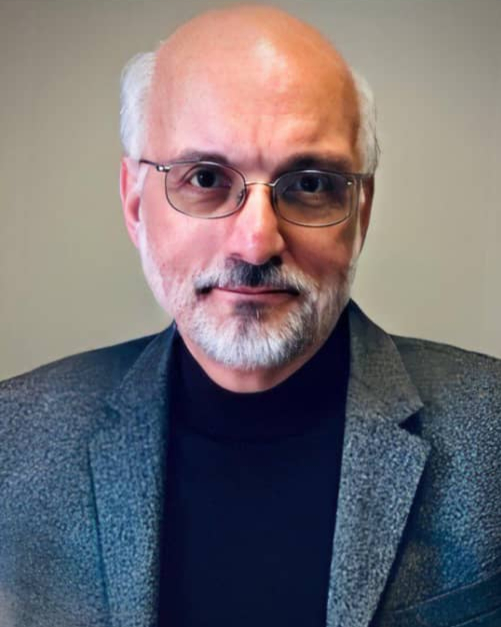
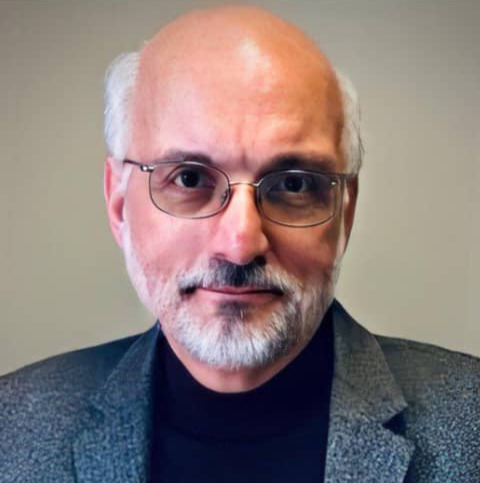
Revamped the media institute page

diff --git a/mediatraining.html b/mediatraining.html
@@ -112,11 +112,11 @@
             <div class="text-center mt-2">
                 <a href="2025registration.html" class="attention-text">🎯 Register Now for 2025 Media Institute Training</a>
             </div>  
-            <div class="text-center mt-3 mb-4">
+            <!-- <div class="text-center mt-3 mb-4">
                 <a href="documents/Session Titles and Descriptions Draft.pdf" target="_blank" class="btn btn-primary">
                     <i class="bi bi-file-earmark-pdf"></i> Click To View This Year's Session Titles and Description
                 </a>
-            </div>  
+            </div>   -->
 
             <!-- About Section -->
             <nav>
@@ -147,7 +147,7 @@
             </nav>
 
             <!-- Image Centered in Row -->
-            <div class="row justify-content-center mb-5">
+            <div class="row justify-content-center mb-5 image-mti">
                 <div class="col-12 col-md-8 col-lg-6">
                     <div class="border rounded text-center">
                         <a href="#" onclick="openPopup('img/var/media/mti1.jpeg'); return false;">
@@ -164,10 +164,134 @@
                     <img id="popupImage" class="popup-content" src="" onclick="toggleZoom(event)">
                 </div>
             </div>
+
+            <div class="text-center mt-3 mb-4" >
+                <button target="_blank" class="title-btn">
+                    Click The Images Below &#128071; To View This Year's Session Titles and Description
+                </button>
+            </div> 
+
+            <!-- Titles and descriptions starts-->
+            <div class="image-grid">
+                    <a href="#" onclick="openPopup('img/var/media/day1.jpeg'); return false;">
+                        <img src="img/var/media/day1.jpeg" alt="2025 media training schedule" onclick="openModal(0)">
+                    </a>
+                    <a href="#" onclick="openPopup('img/var/media/day1.2.jpeg'); return false;">
+                        <img src="img/var/media/day1.2.jpeg" alt="2025 media training schedule" onclick="openModal(1)">
+                    </a>
+                    <a href="#" onclick="openPopup('img/var/media/day2.jpeg'); return false;">
+                        <img src="img/var/media/day2.jpeg" alt="2025 media training schedule" onclick="openModal(2)">
+                    </a>
+                    <a href="#" onclick="openPopup('img/var/media/day2.2.jpeg'); return false;">
+                        <img src="img/var/media/day2.2.jpeg" alt="2025 media training schedule" onclick="openModal(3)">
+                    </a>
+            </div>     
+            <!-- Titles and descripton ends here -->
+
+            <!-- Bio of Faculty Members Starts -->
+
+            <nav>
+                <div class="nav nav-tabs mb-3">
+                    <button class="nav-link active border-white border-bottom-0 display-6" type="button" role="tab"
+                        id="nav-about-tab" data-bs-toggle="tab" data-bs-target="#nav-about"
+                        aria-controls="nav-about" aria-selected="true">Profile of Faculty Members</button>                                        
+                </div>
+            </nav>
+
+            <div class="tab-content mb-4">
+                <div class="tab-pane active" id="nav-about" role="tabpanel" aria-labelledby="nav-about-tab">
+                    <div class="flex-grid">    
+
+                        <div class="flex-row">
+                            <div class="image-col">
+                            <img src="img/var/media/bishop.png" alt="Bishop Sunday Onuoha">
+                            </div>
+                            <div class="text-col">
+                            <p><span class="highlight">Bishop Dr. Sunday Ndukwo Onuoha </span> holds a doctorate degree from the Southern Methodist University's Perkins School of Theology in Dallas, Texas. He is the President/Founder, Vision Africa, owners of Vision Africa Radio, The Agnes Onuoha Memorial Hospital project and a bouquet of other community development programs. </p>
+                            <p>He was the first Bishop in-charge of Evangelism in the Methodist Church Nigeria, serving for six years. Named the World Methodist Evangelism's Regional Secretary for West Africa in 2012; he is a church planter, Board Member - World Methodist Evangelism, and Committee member - World Methodist Evangelism Institute, Emory University.</p>
+                            <p>A recipient of the ‘Global Peace Award’ (2013); and the ‘NRB Media Award (2016), he served as Special Assistant on Privatization to Nigerian President Olusegun Obasanjo's Presidential, in 2003. Former Co-Chair of Interfaith Dialogue Forum for Peace (IDFP), and the Founding Executive Director of the Nigerian Inter-Faith Action Association (NIFAA) since 2009.</p>
+                            </div>
+                        </div>
+
+                        <div class="flex-row">
+                            <div class="image-col">
+                            <img src="img/var/media/chuck.jpeg" alt="Chuck Pollak">
+                            </div>
+                            <div class="text-col">
+                                <p><span class="highlight">Dr. Chuck Pollak</span> holds a Ph.D from Howard University and lives in Norfolk, Virginia. He is an author, educator and professional broadcaster with over fifty years’ experience in the industries of broadcasting, journalism and higher education, Chuck has helped establish and manage radio and television stations in North/Central America, Eastern Europe, Africa and the Middle East. </p>
+                                <p>He’s coordinated and taught management and production seminars for industry professionals in 30 countries through Sharing International, teaching courses in broadcasting, media research and public relations.   Chuck continues as a consultant for radio and educational institutions internationally and serves as President/Founder of Sharing International.</p>
+                            </div>
+                        </div>
+
+                        <div class="flex-row">
+                            <div class="image-col">
+                            <img src="img/var/media/troy.jpeg" alt="Troy A Miller">
+                            </div>
+                            <div class="text-col">
+                            <p><span class="highlight">Troy A. Miller</span> is a senior executive with more than 30 years of management and business experience. He has served as president & CEO of NRB since July 2022, having previously served as the interim CEO of NRB starting March 2019. Miller is also president & CEO of NRBTV, where he has served since June 2005.</p>
+                            <p>Under Miller’s leadership, NRB has expanded its membership base, enhanced financial stability, and elevated the annual NRB Convention, which now attracts nearly 6,000 Christian media professionals worldwide.</p>
+                            <p>For ten years, Miller worked for Gateway, Inc. and was involved in leading several business startups, including Gateway’s expansion into Europe and Asia, with new manufacturing facilities and a global information technology application strategy. Also served as executive vice president and chief operating officer for D. James Kennedy Ministries. </p>
+                            <p>Miller has made media appearances on outlets including The Washington Times, TBN, Salem News Channel, Real America’s Voice, Fox & Friends, and The Christian Post. He also regularly contributes op-eds to outlets such as Newsmax, Fox News, and The Daily Caller. He served with distinction in the US Navy from 1983 –1988; and resides in Nashville, Tennessee with his wife Marsha.</p>
+                            </div>
+                        </div>
+
+                        <div class="flex-row">
+                            <div class="image-col">
+                            <img src="img/var/media/vic.jpeg" alt="DR. Vic Costello">
+                            </div>
+                            <div class="text-col">
+                            <p><span class="highlight">Dr. Vic Costello </span>holds a PhD in Communications from the University of Tennessee-Knoxville and serves as an Associate Professor of Cinema and Television Arts at Elon University, North Carolina; also filling the role of Director for the Communications Core Curriculum and Minor. For nearly 30 years, he has been dedicated to teaching courses in multimedia design, filmmaking, radio/TV broadcasting. </p>
+                            <p>In his 25-year membership with the Broadcast Education Association (BEA), he has served as BEA board President and Chair of the BEA Festival of Media Arts. Beyond the classroom, Dr. Costello’s wealth of practical experience, includes work in TV station operations, corporate video, media management, and directing and producing live events and awards shows.</p>
+                            <p>Authoring the textbook "Multimedia Foundations: Core Concepts for Digital Design," now in its third edition (released in July 2023), Dr. Costello genuine passion for students' understanding of visual design, audio and video production, editing, and storytelling, and hopes to raise future generations of media professionals and storytellers.</p>
+                            </div>
+                        </div>
+
+                        <div class="flex-row">
+                            <div class="image-col">
+                            <img src="img/var/media/raymond.jpeg" alt="Chief Raymond Nkemdirim">
+                            </div>
+                            <div class="text-col">
+                            <p><span class="highlight">Chief Raymond Iheanacho Nkemdirim </span> is an experienced security intelligence administrator who served the Nigerian nation for 35yrs in the State Security Service (SSS); attaining the peak of his career, and retired meritoriously as Director Operations and obtaining the award of Member, Order of the Federal Republic (MFR) from Mr. President.</p>
+                            <p>After retirement, he was retained on contract as Special Assistant to the Director General, DSS; successfully coordinating several operations that facilitated the containment of violent threats across major Nigerian cities through massive modernization of the Service’s technical intelligence (TECHINT) capability.</p>
+                            <p>He recently published a book -“Nigerian Security Challenges:  A Compendium of Selected Intelligence Essays”, and has served at various times, as Visiting Lecturer to the Post Graduate School of the Nigerian Defence Academy (NDA), Kaduna; and a resource person at several security institutions including the National Institute for Security Studies, Nigerian Army Resource Center, Defence Intelligence College.</p>
+                            <p>He was Special Adviser on Security to H. E. Governor Emeka Ihedioha of Imo State between June 2019 and January 2020, and has been actively involved in several initiatives to restore peace in the South East of Nigeria.</p>
+                            </div>
+                        </div>
+
+                        <div class="flex-row">
+                            <div class="image-col">
+                            <img src="img/var/media/sharon.jpeg" alt="Sharon Geiger">
+                            </div>
+                            <div class="text-col">
+                            <p><span class="highlight">Sharon Geiger</span> erves as Assistant General Manager/Outreach Director at KCBI FM in Dallas, Texas, USA. She oversees KCBI’s HD-2 radio station, produced programming and assists with major donor relationships. Through KCBI Outreach, Sharon mobilizes listeners to put their faith into action. Sharon has served in various leadership positions.  </p>
+                            <p>An award-winning broadcast journalist, she has trained Christian broadcast professionals around the world. Sharon has an M.A. in Global Leadership from Wheaton College. Sharon and her husband, Don, live in Dallas. They are proud parents and grandparents and active in their church and community.</p>
+                            </div>
+                        </div>
+
+                        <div class="flex-row">
+                            <div class="image-col">
+                            <img src="img/var/media/bishop.png" alt="Bishop Sunday Onuoha">
+                            </div>
+                            <div class="text-col">
+                            <p><span class="highlight">Bishop Dr. Sunday Ndukwo Onuoha </span> holds a doctorate degree from the Southern Methodist University's Perkins School of Theology in Dallas, Texas. He is the President/Founder, Vision Africa, owners of Vision Africa Radio, The Agnes Onuoha Memorial Hospital project and a bouquet of other community development programs. </p>
+                            <p>He was the first Bishop in-charge of Evangelism in the Methodist Church Nigeria, serving for six years. Named the World Methodist Evangelism's Regional Secretary for West Africa in 2012; he is a church planter, Board Member - World Methodist Evangelism, and Committee member - World Methodist Evangelism Institute, Emory University.</p>
+                            <p>A recipient of the ‘Global Peace Award’ (2013); and the ‘NRB Media Award (2016), he served as Special Assistant on Privatization to Nigerian President Olusegun Obasanjo's Presidential, in 2003. Former Co-Chair of Interfaith Dialogue Forum for Peace (IDFP), and the Founding Executive Director of the Nigerian Inter-Faith Action Association (NIFAA) since 2009.</p>
+                            </div>
+                        </div>
+
+
+                        
+                        </div>                                                                 
+            </div>
+
+
+            
         </div>
     </div>
 </div>
     
+        
+
 
         <!-- Footer Start -->
  <div class="container-fluid bg-dark text-white-50 footer pt-5 mt-5">

diff --git a/css/style.css b/css/style.css
@@ -871,8 +871,12 @@
   #image-popup img {
     width: 100%;
     height: auto;
-    display: block;
+    display: block;    
   }
+
+   .image-mti img:hover {
+      transform: scale(1.5);
+    }
 
   .popup-close {    
   position: absolute;
@@ -898,8 +902,14 @@
     background-color: rgba(0, 0, 0, 0.5);
   }
 
+  
+
 
   /* image pop out effect in media training */
+
+
+
+
   .popup-overlay {
     display: none;
     position: fixed;
@@ -947,7 +957,135 @@
 
 
 
+/* Code to control the beghaviour of the titles and description view */
+
+
+    .image-grid {
+      display: flex;
+      flex-wrap: wrap;
+      justify-content: center;
+      gap: 25px;
+      padding: 15px;
+          
+    }
+
+    .image-grid img {
+      width: 100%;
+      max-width: 200px;
+      height: auto;
+      cursor: pointer;
+      border: 4px solid #B74E26; 
+      border-radius: 5%;     
+      transition: transform 0.4s;
+    }
+
+    .image-grid img:hover {
+      transform: scale(1.50);
+    }
+
+    .modal {
+      display: none;
+      position: fixed;
+      z-index: 999;
+      top: 0;
+      left: 0;
+      width: 100vw;
+      height: 100vh;
+      background: rgba(0, 0, 0, 0.95);
+      justify-content: center;
+      align-items: center;
+    }
+
+    .modal.show {
+      display: flex;
+    }
+
+    .modal img {
+      max-width: 90%;
+      max-height: 90%;
+      border-radius: 10px;      
+    }
+
+    
+
+
+.title-btn {
+    background-color: #B74E26;
+    color: white;
+    border: 2px solid #1671B0;
+    border-radius: 10%;
+}
 
 
 
+/* This controls the Faculty Members profile */
+  .flex-grid {
+    display: flex;
+    flex-direction: column;
+    gap: 20px;
+    padding: 10px;
+  }
+
+  .flex-row {
+    display: flex;
+    flex-direction: row;
+    align-items: center;
+    gap: 15px;
+    flex-wrap: wrap;
+    border-top: 2px solid #F29E33;
+    border-right: 2px solid #F29E33;
+    border-radius: 5%;
+    margin: 10px 0;
+    padding: 15px;
+  }
+
+  .image-col {
+    display: flex;
+    flex: 1;
+    justify-content: center;
+    min-width: 200px;
+  }
+
+  .image-col img {
+  width: 100%;
+  max-height: 300px; /* This sets uniform height for all images */
+  object-fit: cover;
+  border-radius: 8px;
+  display: block;
+}
+
+.image-col {
+  flex: 1;
+  max-width: 250px;
+}
+
+.highlight {
+    color: #b74e26;
+    font-weight: bold;
+    font-size: medium;
+}
+
+
+  .text-col {
+    flex: 2;
+    min-width: 250px;
+  }
+
+  .text-col p {
+    margin: 0;
+    line-height: 1.5;
+  }
+
+  .text-col p {
+  margin-bottom: 12px; /* or 16px */
+  line-height: 1.4;
+}
+
+
+  /* Optional: Make text stack under image on small screens */
+  @media (max-width: 600px) {
+    .flex-row {
+      flex-direction: column;
+    }
+  }
 

diff --git a/index.html b/index.html
@@ -114,7 +114,7 @@
                 <div class="swiper mySwiper">
             <div class="swiper-wrapper">
                 <div class="swiper-slide">
-                <img src="img/var/media/mti3.jpeg" alt="media Institute 2025" />
+                <img src="img/var/media/mti3.jpeg" alt="media Institute 2025" class="img-fluid" >
                 </div>                
                 <div class="swiper-slide">
                 <img src="img/oap/oap2.jpeg" alt="OAP 1" />
@@ -145,31 +145,6 @@
             <a href="2025registration.html" class="attention-text">🎯 Register Now for 2025 Media Training Institute!</a>
             </div>
          </div>
-            
-
-
-        <!-- Hero Starts -->
-        <!-- <div class="container-fluid py-5 mb-5 hero-header">
-            <div class="container py-5">
-                <div class="row g-5 align-items-center">
-                    <div class="col-md-12 col-lg-5">      
-                        <h3 class="mb-3 text-secondary">We Are Live <b c>24/7</b></h3>
-                        <h6 class="mb-6 display-3 ">Press <span style="color: #b74e26;">Play To Listen</span></h6>
-                        <br>
-
-                        <iframe src="https://var104-1fm.mixlr.com/embed" frameborder="0" scrolling="no" height="300px" width="100%"></iframe>                     
-                        
-                       
-                    </div>
-                    
-                </div>
-                                
-            </div>
-        </div> -->
-        <!-- Hero Ends -->      
-
-        
-
         
                
         <!-- News Start Here-->

diff --git a/index2.html b/index2.html
@@ -1,0 +1,5 @@
+<!DOCTYPE html>
+
+head
+
+</html>
